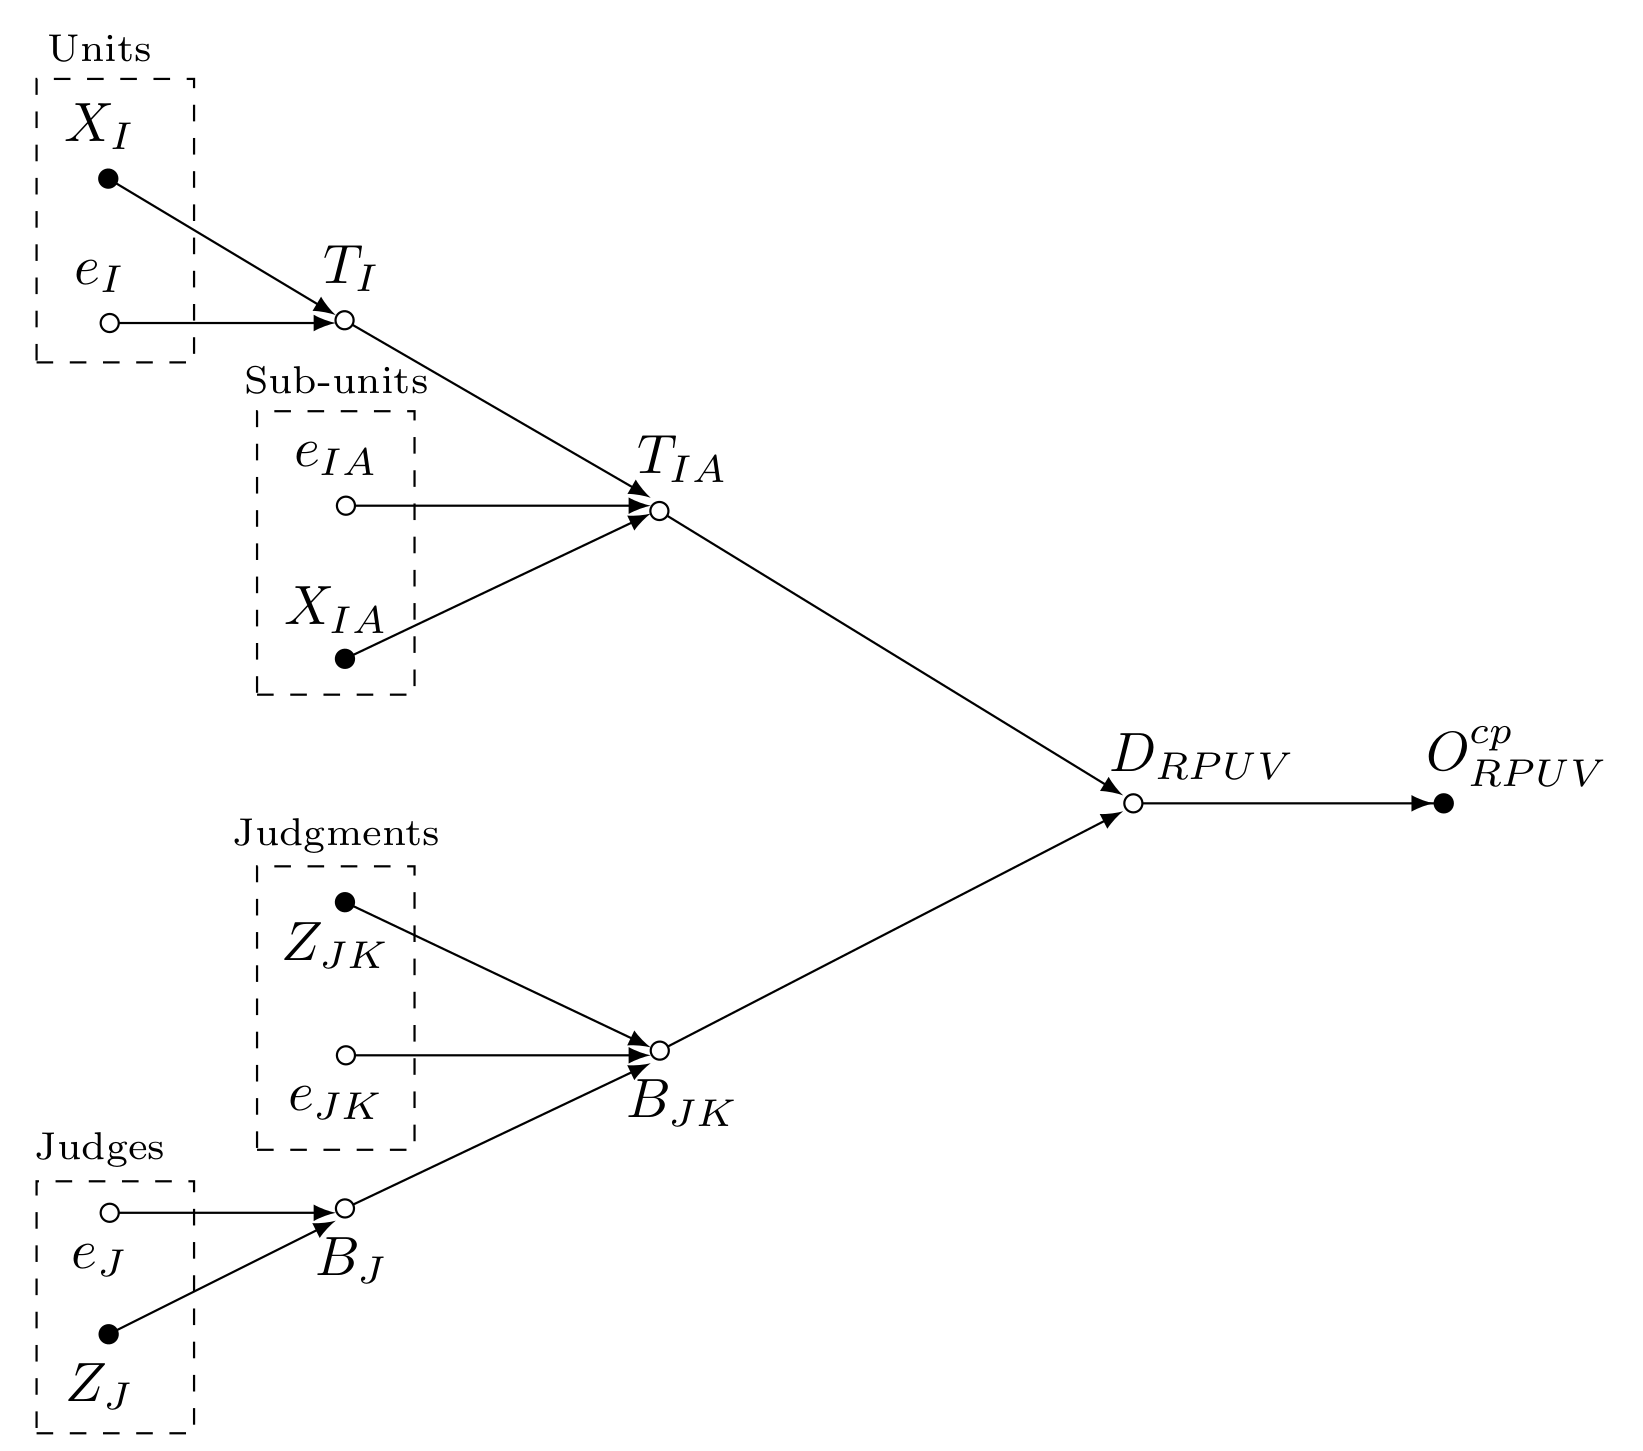
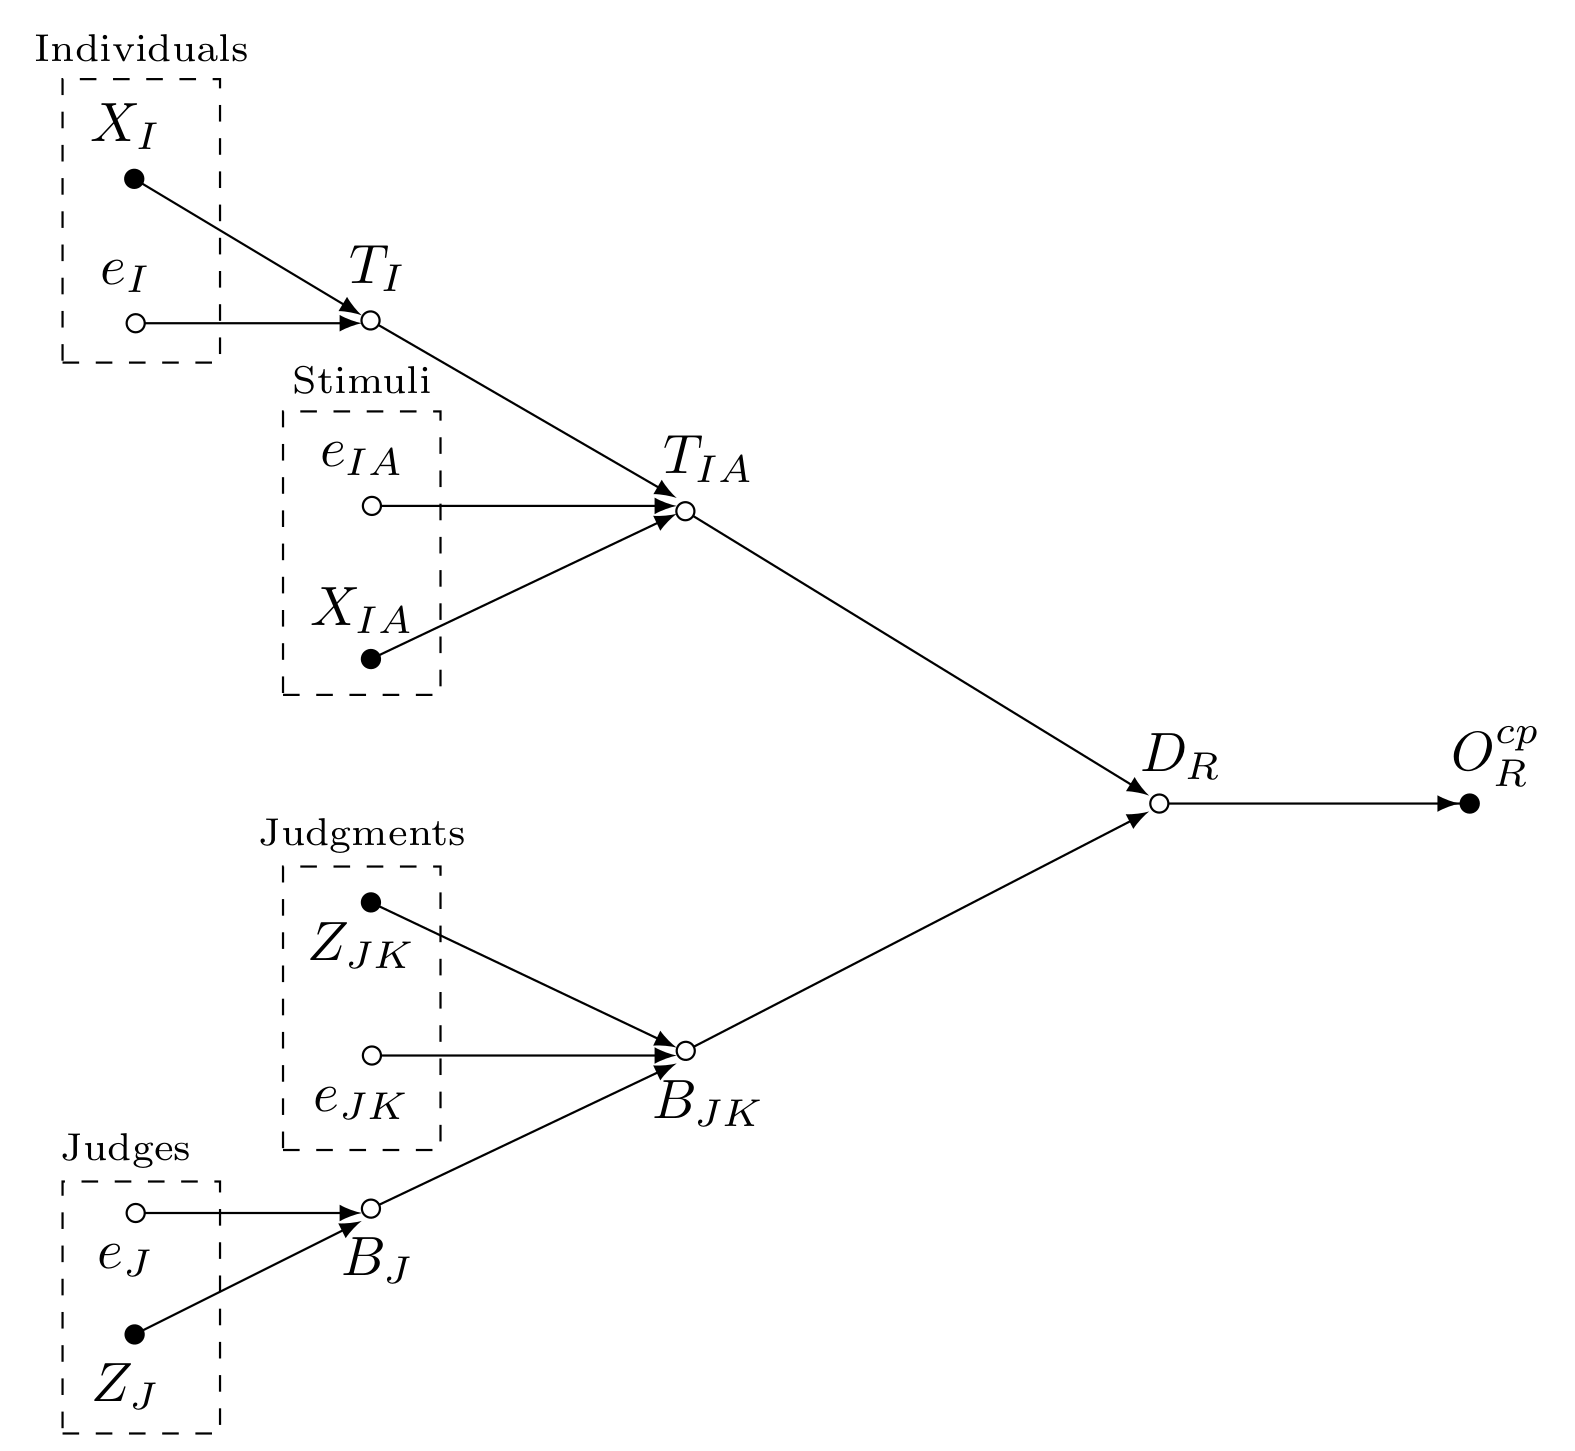
section:all; process:write,formulas

diff --git a/docs/presentation.html b/docs/presentation.html
@@ -14,7 +14,7 @@
   <meta name="author" content="Tine van van Daal">
   <meta name="author" content="Sven De De Maeyer">
   <meta name="author" content="Steven Gillis">
-  <meta name="dcterms.date" content="2025-02-28">
+  <meta name="dcterms.date" content="2025-04-09">
   <title>Let’s talk about Thurstone &amp; Co.</title>
   <meta name="apple-mobile-web-app-capable" content="yes">
   <meta name="apple-mobile-web-app-status-bar-style" content="black-translucent">
@@ -355,8 +355,9 @@
 <p>Specificaly, let’s talk about if we should take for granted the assumption of his model when analyzing CJ data?</p>
 <p>In order to do this</p>" class="quarto-title-block center">
   <h1 class="title"><p>Let’s talk about Thurstone &amp; Co.</p></h1>
-  <p class="subtitle"></p><p>UK Rasch and Psychometrics User Group Meeting<br>
-Cambridge, UK, 2025</p><p></p>
+  <p class="subtitle"></p><p>Fourth CJ Research Consortium meeting (Bath Spa),<br>
+UK Rasch and Psychometrics User Group Meeting (Cambridge)<br>
+UK, 2025</p><p></p>
 
 <div class="quarto-title-authors">
 <div class="quarto-title-author">
@@ -405,7 +406,7 @@ Cambridge, UK, 2025</p><p></p>
     </div>
 </div>
 
-  <p class="date">2025-02-28</p>
+  <p class="date">2025-04-09</p>
 </section>
 <section id="motivating-example" class="slide level2" style="font-size:80%;">
 <h2>1. Motivating example</h2>
@@ -749,7 +750,7 @@ Figure&nbsp;3: The effect of measurement error on the estimation of a regression
 </section>
 <section id="the-conceptual-population-model" class="slide level2" style="font-size:80%;">
 <h2>4.1 The conceptual-population model</h2>
-<p>Assuming that we can access to a <strong>census of comparative data</strong>, that is:</p>
+<p>Assuming that we can access to a <strong>conceptual population</strong> of comparative data, that is:</p>
 <div>
 <div style="font-size:80%;">
 <ol type="a">
@@ -811,20 +812,18 @@ Figure&nbsp;4: Conceptual-population model, final vectorized form. <em>Left pane
 </section>
 <section id="the-sample-comparison-model-1" class="slide level2" style="font-size:80%;">
 <h2>4.2 The sample-comparison model</h2>
-<div id="fig-cj14" class="quarto-layout-panel">
+<div id="fig-cj15" class="quarto-layout-panel">
 <figure class="quarto-float quarto-float-fig">
-<div aria-describedby="fig-cj14-caption-0ceaefa1-69ba-4598-a22c-09a6ac19f8ca">
+<div aria-describedby="fig-cj15-caption-0ceaefa1-69ba-4598-a22c-09a6ac19f8ca">
 <div class="quarto-layout-row">
 <div class="quarto-layout-cell" style="flex-basis: 50.0%;justify-content: center;">
-<p><img data-src="./images/CJ_TM_14.png" style="width:100.0%"></p>
+<p><img data-src="./images/CJ_TM_15.png" style="width:100.0%"></p>
 </div>
 <div class="fragment fade-left quarto-layout-cell" style="flex-basis: 50.0%;justify-content: flex-start;">
 <p><span class="math display">\[
 \begin{aligned}
-  O_{RPUV} &amp; := f_{C}(O^{sc}_{RPUV}, C) \\
-  O^{sc}_{RPUV} &amp; := f_{S}(O^{cp}_{RPUV}, S) \\
-  O^{cp}_{RPUV} &amp; := f_{O}(D_{RPUV}) \\
-  D_{RPUV} &amp; := f_{D}(T_{IA}, B_{JK}) \\
+  O_{R} &amp; := f_{O}(D_{R}, S, C) \\
+  D_{R} &amp; := f_{D}(T_{IA}, B_{JK}) \\
   T_{IA} &amp; := f_{T}(T_{I}, X_{IA}, e_{IA}) \\
   T_{I} &amp; := f_{T}(X_{I}, e_{I}) \\
   B_{JK} &amp; := f_{B}(B_{J}, Z_{JK}, e_{JK}) \\
@@ -837,33 +836,30 @@ Figure&nbsp;4: Conceptual-population model, final vectorized form. <em>Left pane
 </div>
 </div>
 </div>
-<figcaption class="quarto-float-caption-bottom quarto-float-caption quarto-float-fig" id="fig-cj14-caption-0ceaefa1-69ba-4598-a22c-09a6ac19f8ca">
-Figure&nbsp;5: Sample-comparison model including sample and comparison mechanisms. <em>Left panel</em> illustrates the DAG. <em>Right panel </em> depicts the associated SCM.
+<figcaption class="quarto-float-caption-bottom quarto-float-caption quarto-float-fig" id="fig-cj15-caption-0ceaefa1-69ba-4598-a22c-09a6ac19f8ca">
+Figure&nbsp;5: Comparative judgment model. <em>Left panel</em> illustrates the DAG. <em>Right panel </em> depicts the associated SCM.
 </figcaption>
 </figure>
 </div>
 </section>
 <section id="abandoning-the-btl-model" class="slide level2" style="font-size:80%;">
 <h2>5. Abandoning the BTL model</h2>
-<p>With <strong>Bayesian inference</strong> we convert the SCM into a statistical model<br>
-</p>
-<div id="fig-cj15" class="quarto-layout-panel">
+<p>Using the SCM, we derive a statistical model to address violations of the equal dispersion assumption in CJ experiments:</p>
+<div id="fig-cj16" class="quarto-layout-panel">
 <figure class="quarto-float quarto-float-fig">
-<div aria-describedby="fig-cj15-caption-0ceaefa1-69ba-4598-a22c-09a6ac19f8ca">
+<div aria-describedby="fig-cj16-caption-0ceaefa1-69ba-4598-a22c-09a6ac19f8ca">
 <div class="quarto-layout-row">
 <div class="quarto-layout-cell" style="flex-basis: 50.0%;justify-content: flex-start;">
 <p><span class="math display">\[
 \begin{aligned}
-  O_{RPUV} &amp; := f_{C}(O^{sc}_{RPUV}, C) \\
-  O^{sc}_{RPUV} &amp; := f_{S}(O^{cp}_{RPUV}, S) \\
-  O^{cp}_{RPUV} &amp; := f_{O}(D_{RPUV}) \\
-  D_{RPUV} &amp; := f_{D}(T_{IA}, B_{JK}) \\
-  T_{IA} &amp; := f_{T}(T_{I}, X_{A}, e_{IA}) \\
+  O_{R} &amp; := f_{O}(D_{R}, S, C) \\
+  D_{R} &amp; := f_{D}(T_{IA}, B_{JK}) \\
+  T_{IA} &amp; := f_{T}(T_{I}, X_{IA}, e_{IA}) \\
   T_{I} &amp; := f_{T}(X_{I}, e_{I}) \\
-  B_{JK} &amp; := f_{B}(B_{J}, Z_{K}, e_{JK}) \\
+  B_{JK} &amp; := f_{B}(B_{J}, Z_{JK}, e_{JK}) \\
   B_{J} &amp; := f_{B}(Z_{J}, e_{J}) \\
-  e_{I} &amp; := f_{e}(X_{I}) \\
-  e_{J} &amp; := f_{e}(Z_{J}) \\
+  e_{I} &amp; \:\bot\:\{ e_{J}, e_{IA}, e_{JK} \} \\
+  e_{J} &amp; \:\bot\:\{ e_{IA}, e_{JK} \} \\
   e_{IA} &amp; \:\bot\:e_{JK}
 \end{aligned}
 \]</span></p>
@@ -871,29 +867,33 @@ Figure&nbsp;5: Sample-comparison model including sample and comparison mechanism
 <div class="fragment fade-left quarto-layout-cell" style="flex-basis: 50.0%;justify-content: flex-start;">
 <p><span class="math display">\[
 \begin{aligned}
-  O_{RPUV} &amp; = O^{sc}_{RPUV} \odot C \\
-  O^{sc}_{RPUV} &amp; = O^{cp}_{RPUV} \odot S \\
-  O^{cp}_{RPUV} &amp; \sim \text{Bernoulli} \left[ \text{inv_logit}( D_{RPUV} ) \right] \\
-  D_{RPUV} &amp; = \left( T_{IA}[R_{1},P_{1}] - T_{IA}[R_{2},P_{2}] \right) + B_{JK}[U,V] \\
+  O_{R} &amp; \overset{iid}{\sim} \text{Bernoulli} \left[ \text{inv\_logit}( D_{R} \odot S \odot C ) \right] \\
+  D_{R} &amp; = \left( T_{IA}[i,a] - T_{IA}[h,b] \right) + B_{JK}[j,k] \\
   T_{IA} &amp; = T_{I} + \beta_{XA} X_{IA} + e_{IA} \\
   T_{I} &amp; = \beta_{XI} X_{I} + e_{I} \\
   B_{JK} &amp; = B_{J} + \beta_{ZK} Z_{JK} + e_{JK} \\
   B_{J} &amp; = \beta_{ZJ} Z_{J} + e_{J} \\
-  e_{I} &amp; \sim \text{Normal}(0, \color{blue}{s_{XI}} ) \color{blue}{\longleftarrow} \\
-  e_{J} &amp; \sim \text{Normal}(0, \color{blue}{s_{ZJ}} ) \color{blue}{\longleftarrow} \\
-  e_{IA} &amp; \sim \text{Normal}(0, p_{IA}) \\  
-  e_{JK} &amp; \sim \text{Normal}(0, p_{JK}) \\ \\
-  &amp; \textbf{Contraints:} \\
-  &amp; \sum_{g=1}^{G_{XI}} \color{blue}{s_{XI}}/G_{XI} = 1 ; \quad \sum_{g=1}^{G_{ZJ}} \color{blue}{s_{ZJ}}/G_{ZJ} = 1
+  e_{I} &amp; \overset{iid}{\sim} \text{Normal}(0,\color{blue}{s_{XI}} ) \color{blue}{\longleftarrow} \\
+  e_{J} &amp; \overset{iid}{\sim} \text{Normal}(0,\color{blue}{s_{ZJ}} ) \color{blue}{\longleftarrow} \\
+  e_{IA} &amp; \overset{iid}{\sim} \text{Normal}(0, p_{IA}) \\  
+  e_{JK} &amp; \overset{iid}{\sim} \text{Normal}(0, p_{JK})
 \end{aligned}
 \]</span></p>
 </div>
 </div>
 </div>
-<figcaption class="quarto-float-caption-bottom quarto-float-caption quarto-float-fig" id="fig-cj15-caption-0ceaefa1-69ba-4598-a22c-09a6ac19f8ca">
-Figure&nbsp;6: Sample-comparison model including sample and comparison mechanisms. <em>Left panel</em> illustrates the sample-comparison SCM. <em>Right panel</em> depicts the statistical model.
+<figcaption class="quarto-float-caption-bottom quarto-float-caption quarto-float-fig" id="fig-cj16-caption-0ceaefa1-69ba-4598-a22c-09a6ac19f8ca">
+Figure&nbsp;6: Comparative judgment model, SCM and statistical model assuming different discriminal dispersions for the student’s traits
 </figcaption>
 </figure>
+</div>
+<div class="fragment">
+<div style="font-size:80%;">
+<p>Constraints to anchor the scale of the latent trait <span class="citation" data-cites="Depaoli_2021">[<a href="#/references" role="doc-biblioref" onclick="">30</a>]</span>:</p>
+</div>
+<p><span class="math display">\[
+\sum_{g=1}^{G} \color{blue}{s_{XI}}[g]/G = 1; \quad \sum_{g=1}^{G} \color{blue}{s_{ZJ}}[g]/G = 1
+\]</span></p>
 </div>
 </section>
 <section id="discussion-findings" class="slide level2" style="font-size:80%;">
@@ -901,7 +901,7 @@ Figure&nbsp;6: Sample-comparison model including sample and comparison mechanism
 <p>We have proposed a model that:</p>
 <div>
 <ol type="1">
-<li class="fragment">Shifts the analysis paradigm from <em>passively accepting</em> to <em>actively testing</em> whether the assumptions fit the data <span class="citation" data-cites="Kelly_et_al_2022">[<a href="#/references" role="doc-biblioref" onclick="">30</a>]</span>. Specifically, we have <strong>lifted</strong> the necessity of assuming:</li>
+<li class="fragment">Shifts the analysis paradigm from <em>passively accepting</em> to <em>actively testing</em> whether the assumptions fit the data <span class="citation" data-cites="Kelly_et_al_2022">[<a href="#/references" role="doc-biblioref" onclick="">31</a>]</span>. Specifically, we have <strong>lifted</strong> the necessity of assuming:</li>
 </ol>
 <div>
 <div style="font-size:80%;">
@@ -940,7 +940,7 @@ Figure&nbsp;6: Sample-comparison model including sample and comparison mechanism
 <p>We have proposed a model that:</p>
 <div>
 <ol start="2" type="1">
-<li class="fragment">Clarify interactions <strong>among actors</strong> involved in CJ experiments <span class="citation" data-cites="Kelly_et_al_2022">[<a href="#/references" role="doc-biblioref" onclick="">30</a>]</span>:</li>
+<li class="fragment">Clarify interactions <strong>among actors</strong> involved in CJ experiments <span class="citation" data-cites="Kelly_et_al_2022">[<a href="#/references" role="doc-biblioref" onclick="">31</a>]</span>:</li>
 </ol>
 <div>
 <div style="font-size:80%;">
@@ -951,13 +951,13 @@ Figure&nbsp;6: Sample-comparison model including sample and comparison mechanism
 </div>
 </div>
 <ol start="3" type="1">
-<li class="fragment">Clarify <strong>two addional processes</strong> involved in CJ experiments <span class="citation" data-cites="Kelly_et_al_2022">[<a href="#/references" role="doc-biblioref" onclick="">30</a>]</span>:</li>
+<li class="fragment">Clarify <strong>two addional processes</strong> involved in CJ experiments <span class="citation" data-cites="Kelly_et_al_2022">[<a href="#/references" role="doc-biblioref" onclick="">31</a>]</span>:</li>
 </ol>
 <div>
 <div style="font-size:80%;">
 <ol type="a">
-<li class="fragment">The sample mechanism is a <span style="color:blue;"><strong>generator</strong> of <em>missing data</em> (MCAR, MAR, MNAR)</span></li>
-<li class="fragment">The comparison mechanism is a <span style="color:blue;"><strong>generator</strong> of <em>missing data</em> (MCAR, MAR, MNAR)</span></li>
+<li class="fragment"><p>The sample mechanism is a <span style="color:blue;"><strong>generator</strong> of <em>missing data</em></span>. We can now use the missing data mechanisms MCAR, MAR, MNAR <span class="citation" data-cites="Rubin_1976">[<a href="#/references" role="doc-biblioref" onclick="">32</a>]</span></p></li>
+<li class="fragment"><p>The comparison mechanism is a <span style="color:blue;"><strong>generator</strong> of <em>missing data</em></span>. We can now use the missing data mechanisms MCAR, MAR, MNAR <span class="citation" data-cites="Rubin_1976">[<a href="#/references" role="doc-biblioref" onclick="">32</a>]</span></p></li>
 </ol>
 </div>
 </div>
@@ -976,7 +976,7 @@ Figure&nbsp;6: Sample-comparison model including sample and comparison mechanism
 </ol>
 </div>
 <aside class="notes">
-<p>a <em>sufficient adjustment</em> set of variables (potentially an empty set) refers to those that satisfy the <em>backdoor criterion</em> <span class="citation" data-cites="Neal_2020">[<a href="#/references" role="doc-biblioref" onclick="">29</a>]</span>, that is, variables that block all non-causal paths without introducing new ones <span class="citation" data-cites="Pearl_2009 Pearl_et_al_2016 Morgan_et_al_2014">[<a href="#/references" role="doc-biblioref" onclick="">26</a>, <a href="#/references" role="doc-biblioref" onclick="">27</a>, <a href="#/references" role="doc-biblioref" onclick="">31</a>]</span>.</p>
+<p>a <em>sufficient adjustment</em> set of variables (potentially an empty set) refers to those that satisfy the <em>backdoor criterion</em> <span class="citation" data-cites="Neal_2020">[<a href="#/references" role="doc-biblioref" onclick="">29</a>]</span>, that is, variables that block all non-causal paths without introducing new ones <span class="citation" data-cites="Pearl_2009 Pearl_et_al_2016 Morgan_et_al_2014">[<a href="#/references" role="doc-biblioref" onclick="">26</a>, <a href="#/references" role="doc-biblioref" onclick="">27</a>, <a href="#/references" role="doc-biblioref" onclick="">33</a>]</span>.</p>
 <p>Naturally, the validity of causal claims now hinges on the assumption that these variables serve as a sufficient adjustment set, a property that cannot be guaranteed for any variable. Nevertheless, as <span class="citation" data-cites="Kohler_et_al_2019">[<a href="#/references" role="doc-biblioref" onclick="">24</a>]</span> noted, drawing conclusions about the real world from observed data inevitably requires assumptions, and these requirements hold true for both observational and experimental data.</p>
 <style type="text/css">
         span.MJX_Assistive_MathML {
@@ -1004,9 +1004,9 @@ Figure&nbsp;6: Sample-comparison model including sample and comparison mechanism
 <li class="fragment">“New” rules of thumb for sample sizes or number of comparisons</li>
 <li class="fragment">Are there benefits of adaptive comparative algorithms?</li>
 <li class="fragment">Effects of predictor variables on students, texts, judges, and judgments</li>
-<li class="fragment">Do repeated judgments bring benefits? (<em>repeated measures design</em> <span class="citation" data-cites="Lawson_2015">[<a href="#/references" role="doc-biblioref" onclick="">32</a>]</span>)</li>
+<li class="fragment">Do repeated judgments bring benefits? (<em>repeated measures design</em> <span class="citation" data-cites="Lawson_2015">[<a href="#/references" role="doc-biblioref" onclick="">34</a>]</span>)</li>
 <li class="fragment">Are additive better than multiplicative judges’ biases (akin to <em>discrimination</em> in 2-PL IRT model)</li>
-<li class="fragment">How to work with random and non-random samples <span class="citation" data-cites="Bareinboim_et_al_2014">[<a href="#/references" role="doc-biblioref" onclick="">33</a>]</span></li>
+<li class="fragment">How to work with random and non-random samples <span class="citation" data-cites="Bareinboim_et_al_2014">[<a href="#/references" role="doc-biblioref" onclick="">35</a>]</span></li>
 <li class="fragment"><strong>etc. etc. etc.</strong></li>
 </ol>
 </div>
@@ -1103,17 +1103,23 @@ Figure&nbsp;6: Sample-comparison model including sample and comparison mechanism
 <div id="ref-Neal_2020" class="csl-entry" role="listitem">
 <div class="csl-left-margin">29. </div><div class="csl-right-inline">Neal B (2020) <a href="https://www.bradyneal.com/Introduction_to_Causal_Inference-Dec17_2020-Neal.pdf">Introduction to causal inference from a machine learning perspective</a></div>
 </div>
+<div id="ref-Depaoli_2021" class="csl-entry" role="listitem">
+<div class="csl-left-margin">30. </div><div class="csl-right-inline">Depaoli S (2021) <a href="">Bayesian structural equation modeling</a>. The Guilford Press</div>
+</div>
 <div id="ref-Kelly_et_al_2022" class="csl-entry" role="listitem">
-<div class="csl-left-margin">30. </div><div class="csl-right-inline">Kelly K, Richardson M, Isaacs T (2022) Critiquing the rationales for using comparative judgement: A call for clarity. Assessment in Education: Principles, Policy &amp; Practice 29(6):674–688. <a href="https://doi.org/10.1080/0969594X.2022.2147901">https://doi.org/10.1080/0969594X.2022.2147901</a></div>
+<div class="csl-left-margin">31. </div><div class="csl-right-inline">Kelly K, Richardson M, Isaacs T (2022) Critiquing the rationales for using comparative judgement: A call for clarity. Assessment in Education: Principles, Policy &amp; Practice 29(6):674–688. <a href="https://doi.org/10.1080/0969594X.2022.2147901">https://doi.org/10.1080/0969594X.2022.2147901</a></div>
+</div>
+<div id="ref-Rubin_1976" class="csl-entry" role="listitem">
+<div class="csl-left-margin">32. </div><div class="csl-right-inline">Rubin D (1976) Inference and missing data. Biometrika 63(3):581–592. <a href="https://doi.org/10.1093/biomet/63.3.581">https://doi.org/10.1093/biomet/63.3.581</a></div>
 </div>
 <div id="ref-Morgan_et_al_2014" class="csl-entry" role="listitem">
-<div class="csl-left-margin">31. </div><div class="csl-right-inline">Morgan S, Winship C (2014) <a href="">Counterfactuals and causal inference: Methods and principles for social research</a>, 2nd ed. Cambridge University Press</div>
+<div class="csl-left-margin">33. </div><div class="csl-right-inline">Morgan S, Winship C (2014) <a href="">Counterfactuals and causal inference: Methods and principles for social research</a>, 2nd ed. Cambridge University Press</div>
 </div>
 <div id="ref-Lawson_2015" class="csl-entry" role="listitem">
-<div class="csl-left-margin">32. </div><div class="csl-right-inline">Lawson J (2015) <a href="">Design and analysis of experiments with r</a>. Chapman; Hall/CRC</div>
+<div class="csl-left-margin">34. </div><div class="csl-right-inline">Lawson J (2015) <a href="">Design and analysis of experiments with r</a>. Chapman; Hall/CRC</div>
 </div>
 <div id="ref-Bareinboim_et_al_2014" class="csl-entry" role="listitem">
-<div class="csl-left-margin">33. </div><div class="csl-right-inline">Bareinboim E, Tian J, Pearl J (2014) Recovering from selection bias in causal and statistical inference. Proceedings of the AAAI Conference on Artificial Intelligence 28(1). <a href="https://doi.org/10.1609/aaai.v28i1.9074">https://doi.org/10.1609/aaai.v28i1.9074</a></div>
+<div class="csl-left-margin">35. </div><div class="csl-right-inline">Bareinboim E, Tian J, Pearl J (2014) Recovering from selection bias in causal and statistical inference. Proceedings of the AAAI Conference on Artificial Intelligence 28(1). <a href="https://doi.org/10.1609/aaai.v28i1.9074">https://doi.org/10.1609/aaai.v28i1.9074</a></div>
 </div>
 </div>
 
